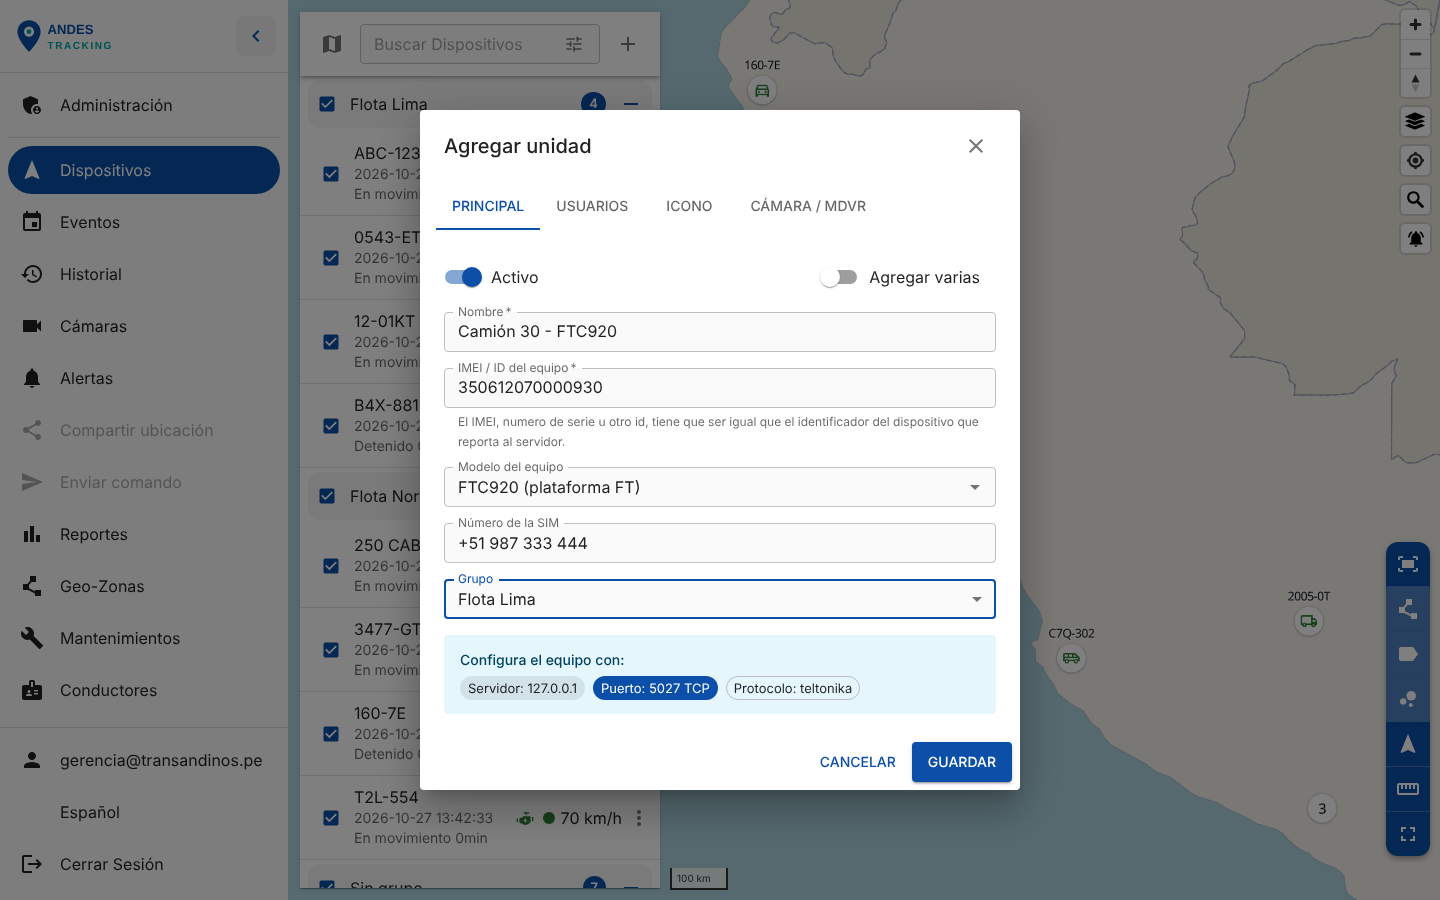
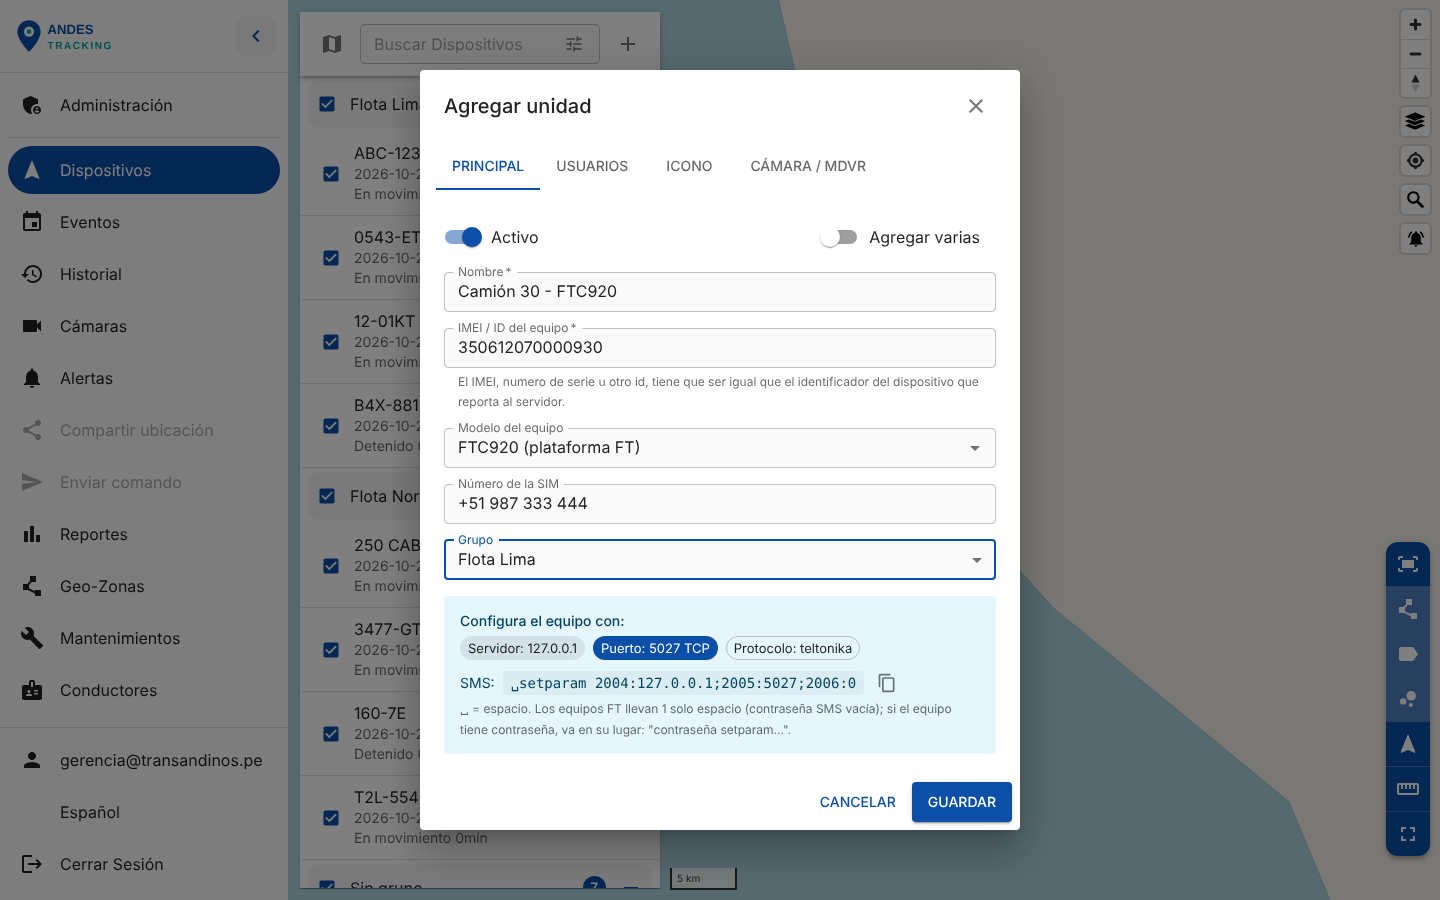
Use the right SMS prefix for Teltonika FMB and FT devices
- Server patch 0007: SMS commands to Teltonika devices get the SMS
  credentials prefix by model: "<login> <password> " on FMB (two spaces
  when empty), "<password> " on the FT platform (one space), from the
  unit's smsLogin / smsPassword attributes; engine stop/resume by SMS
- Add-unit dialog shows the setparam server SMS with the spaces made
  visible for each Teltonika model
- Test: SMS captured through an HTTP gateway for FTC920 and FMB920

Claude-Session: https://claude.ai/code/session_01BDt2R4TKk3QGNRuJmLv2ho

diff --git a/tracking-platform/web/src/common/util/deviceModels.js b/tracking-platform/web/src/common/util/deviceModels.js
@@ -1,6 +1,8 @@
 // Common GPS trackers and cameras: the protocol (and so the server port) each one uses, its map icon and, for
 // cameras, the default camera settings. Ports are the Traccar defaults for each protocol. deviceModel is the exact
 // code saved as the unit model when the decoder reads model specific parameters (Teltonika FMB / FT platform).
+// Teltonika SMS start with the SMS credentials: FMB '<login> <password> ' (two spaces when empty), FT platform
+// '<password> ' (one space).
 
 const models = [
   { brand: 'Concox / Jimi', model: 'GT06N, GT800, JM-VL01, JM-VL03, AT4', protocol: 'gt06', port: 5023, category: 'car', sms: 'SERVER,1,{host},{port},0#' },
@@ -8,20 +10,20 @@ const models = [
   { brand: 'Jimi IoT', model: 'JC450 / JC181 / JC371 / JC182 / JC451 (dashcam JT808)', protocol: 'huabao', port: 5015, category: 'car', camera: { kind: 'dashcam', protocol: 'jt808', channels: 2 } },
   { brand: 'MDVR', model: 'MDVR JT808 / JT1078 (Howen, Streamax, genérico)', protocol: 'huabao', port: 5015, category: 'bus', camera: { kind: 'mdvr', protocol: 'jt808', channels: 4 } },
   { brand: 'JT808', model: 'Rastreador JT/T 808 genérico', protocol: 'huabao', port: 5015, category: 'car' },
-  { brand: 'Teltonika', model: 'FMB920', deviceModel: 'FMB920', protocol: 'teltonika', port: 5027, category: 'car' },
-  { brand: 'Teltonika', model: 'FMB120', deviceModel: 'FMB120', protocol: 'teltonika', port: 5027, category: 'car' },
-  { brand: 'Teltonika', model: 'FMB130', deviceModel: 'FMB130', protocol: 'teltonika', port: 5027, category: 'car' },
-  { brand: 'Teltonika', model: 'FMB140', deviceModel: 'FMB140', protocol: 'teltonika', port: 5027, category: 'truck' },
-  { brand: 'Teltonika', model: 'FMC130', deviceModel: 'FMC130', protocol: 'teltonika', port: 5027, category: 'car' },
-  { brand: 'Teltonika', model: 'FMC920', deviceModel: 'FMC920', protocol: 'teltonika', port: 5027, category: 'car' },
-  { brand: 'Teltonika', model: 'FMC150', deviceModel: 'FMC150', protocol: 'teltonika', port: 5027, category: 'truck' },
-  { brand: 'Teltonika', model: 'FTC920 (plataforma FT)', deviceModel: 'FTC920', protocol: 'teltonika', port: 5027, category: 'car' },
-  { brand: 'Teltonika', model: 'FTC921 (plataforma FT)', deviceModel: 'FTC921', protocol: 'teltonika', port: 5027, category: 'car' },
-  { brand: 'Teltonika', model: 'FTC961 (plataforma FT)', deviceModel: 'FTC961', protocol: 'teltonika', port: 5027, category: 'car' },
-  { brand: 'Teltonika', model: 'FTC965 (plataforma FT)', deviceModel: 'FTC965', protocol: 'teltonika', port: 5027, category: 'truck' },
-  { brand: 'Teltonika', model: 'FTC968 (plataforma FT)', deviceModel: 'FTC968', protocol: 'teltonika', port: 5027, category: 'truck' },
-  { brand: 'Teltonika', model: 'FTM880 (plataforma FT)', deviceModel: 'FTM880', protocol: 'teltonika', port: 5027, category: 'truck' },
-  { brand: 'Teltonika', model: 'FTC880 (plataforma FT)', deviceModel: 'FTC880', protocol: 'teltonika', port: 5027, category: 'truck' },
+  { brand: 'Teltonika', model: 'FMB920', deviceModel: 'FMB920', protocol: 'teltonika', port: 5027, sms: '  setparam 2004:{host};2005:{port};2006:0', category: 'car' },
+  { brand: 'Teltonika', model: 'FMB120', deviceModel: 'FMB120', protocol: 'teltonika', port: 5027, sms: '  setparam 2004:{host};2005:{port};2006:0', category: 'car' },
+  { brand: 'Teltonika', model: 'FMB130', deviceModel: 'FMB130', protocol: 'teltonika', port: 5027, sms: '  setparam 2004:{host};2005:{port};2006:0', category: 'car' },
+  { brand: 'Teltonika', model: 'FMB140', deviceModel: 'FMB140', protocol: 'teltonika', port: 5027, sms: '  setparam 2004:{host};2005:{port};2006:0', category: 'truck' },
+  { brand: 'Teltonika', model: 'FMC130', deviceModel: 'FMC130', protocol: 'teltonika', port: 5027, sms: '  setparam 2004:{host};2005:{port};2006:0', category: 'car' },
+  { brand: 'Teltonika', model: 'FMC920', deviceModel: 'FMC920', protocol: 'teltonika', port: 5027, sms: '  setparam 2004:{host};2005:{port};2006:0', category: 'car' },
+  { brand: 'Teltonika', model: 'FMC150', deviceModel: 'FMC150', protocol: 'teltonika', port: 5027, sms: '  setparam 2004:{host};2005:{port};2006:0', category: 'truck' },
+  { brand: 'Teltonika', model: 'FTC920 (plataforma FT)', deviceModel: 'FTC920', protocol: 'teltonika', port: 5027, sms: ' setparam 2004:{host};2005:{port};2006:0', category: 'car' },
+  { brand: 'Teltonika', model: 'FTC921 (plataforma FT)', deviceModel: 'FTC921', protocol: 'teltonika', port: 5027, sms: ' setparam 2004:{host};2005:{port};2006:0', category: 'car' },
+  { brand: 'Teltonika', model: 'FTC961 (plataforma FT)', deviceModel: 'FTC961', protocol: 'teltonika', port: 5027, sms: ' setparam 2004:{host};2005:{port};2006:0', category: 'car' },
+  { brand: 'Teltonika', model: 'FTC965 (plataforma FT)', deviceModel: 'FTC965', protocol: 'teltonika', port: 5027, sms: ' setparam 2004:{host};2005:{port};2006:0', category: 'truck' },
+  { brand: 'Teltonika', model: 'FTC968 (plataforma FT)', deviceModel: 'FTC968', protocol: 'teltonika', port: 5027, sms: ' setparam 2004:{host};2005:{port};2006:0', category: 'truck' },
+  { brand: 'Teltonika', model: 'FTM880 (plataforma FT)', deviceModel: 'FTM880', protocol: 'teltonika', port: 5027, sms: ' setparam 2004:{host};2005:{port};2006:0', category: 'truck' },
+  { brand: 'Teltonika', model: 'FTC880 (plataforma FT)', deviceModel: 'FTC880', protocol: 'teltonika', port: 5027, sms: ' setparam 2004:{host};2005:{port};2006:0', category: 'truck' },
   { brand: 'Coban', model: 'TK103, TK303, GPS-103', protocol: 'gps103', port: 5001, category: 'car', sms: 'adminip123456 {host} {port}' },
   { brand: 'Sinotrack', model: 'ST-901, ST-906, ST-907 (H02)', protocol: 'h02', port: 5013, category: 'car', sms: '8040000 {host} {port}' },
   { brand: 'Queclink', model: 'GV300, GV55, GV500, GL300', protocol: 'gl200', port: 5004, category: 'truck' },

diff --git a/tracking-platform/web/src/settings/AddDeviceDialog.jsx b/tracking-platform/web/src/settings/AddDeviceDialog.jsx
@@ -147,11 +147,18 @@ const AddDeviceDialog = ({
       {sms && (
         <Stack direction="row" alignItems="center" spacing={1} sx={{ mt: 1 }}>
           <Typography variant="body2">{`${t('addDeviceSms')}:`}</Typography>
-          <Box component="code" sx={{ bgcolor: 'action.hover', px: 1, py: 0.25, borderRadius: 1 }}>{sms}</Box>
+          <Box component="code" sx={{ bgcolor: 'action.hover', px: 1, py: 0.25, borderRadius: 1 }}>
+            {sms.replace(/^ +/, (spaces) => '␣'.repeat(spaces.length))}
+          </Box>
           <Tooltip title={t('addDeviceCopy')}>
             <IconButton size="small" onClick={() => navigator.clipboard?.writeText(sms)}><ContentCopyIcon fontSize="small" /></IconButton>
           </Tooltip>
         </Stack>
+      )}
+      {sms?.startsWith(' ') && (
+        <Typography variant="caption" color="text.secondary">
+          {t(sms.startsWith('  ') ? 'addDeviceSmsTwoSpaces' : 'addDeviceSmsOneSpace')}
+        </Typography>
       )}
     </Alert>
   );

diff --git a/tracking-platform/server/tests/test_teltonika_ft.py b/tracking-platform/server/tests/test_teltonika_ft.py
@@ -3,12 +3,17 @@
 Prueba de los equipos Teltonika de la plataforma FT (FTC920, FTC961...): un FTC920 simulado envía Codec 8
 Extended al puerto 5027 y se comprueba que los datos compartidos con FMB (nivel de batería, ICCID, ADC) y el
 voltaje externo propio de FT (AVL 800) se decodifican; un FMB920 sigue usando el voltaje del AVL 66.
+Con SMS_CAPTURE_PORT (y sms.http.url=http://127.0.0.1:<puerto>/sms en traccar.xml) comprueba además el prefijo de
+los SMS: dos espacios en FMB (login y contraseña vacíos), uno en FT (solo contraseña).
 Uso: TRACCAR_URL=http://127.0.0.1:8082 ADMIN_EMAIL=... ADMIN_PASSWORD=... python3 test_teltonika_ft.py
 """
 import os
+import http.server
+import json
 import socket
 import struct
 import sys
+import threading
 import time
 import urllib.parse
 
@@ -53,6 +58,41 @@ def crc16_ibm(data):
     return crc
 
 
+def check_sms(api, devices, ftc, fmb):
+    received = []
+
+    class Gateway(http.server.BaseHTTPRequestHandler):
+        def do_POST(self):
+            received.append(self.rfile.read(int(self.headers['Content-Length'])).decode())
+            self.send_response(200)
+            self.end_headers()
+
+        def log_message(self, *args):
+            pass
+
+    server = http.server.HTTPServer(('127.0.0.1', int(os.environ['SMS_CAPTURE_PORT'])), Gateway)
+    threading.Thread(target=server.serve_forever, daemon=True).start()
+
+    def sms(imei, command, attributes=None):
+        device = dict(devices[imei], phone='+51900000001', attributes=attributes or {})
+        api.req('PUT', f'/api/devices/{device["id"]}', device)
+        received.clear()
+        status, _ = api.req('POST', '/api/commands/send', dict(command, deviceId=device['id'], textChannel=True))
+        found = wait_for(lambda: received)
+        return status, found and json.loads(found[0])['message']
+
+    custom = {'type': 'custom', 'attributes': {'data': 'getinfo'}}
+    check('FTC920 SMS with one space', sms(ftc, custom) == (200, ' getinfo'))
+    check('FTC920 SMS with password', sms(ftc, custom, {'smsPassword': '1234'}) == (200, '1234 getinfo'))
+    check('FMB920 SMS with two spaces', sms(fmb, custom) == (200, '  getinfo'))
+    check('FMB920 SMS with login and password',
+          sms(fmb, custom, {'smsLogin': 'adm', 'smsPassword': '1234'}) == (200, 'adm 1234 getinfo'))
+    check('FTC920 engine stop by SMS', sms(ftc, {'type': 'engineStop'}) == (200, ' setdigout 1'))
+    check('typed prefix kept as is', sms(fmb, {'type': 'custom', 'attributes': {'data': ' x getinfo'}})
+          == (200, ' x getinfo'))
+    server.shutdown()
+
+
 def main():
     api = Client()
     email = os.environ.get('ADMIN_EMAIL', 'admin@test')
@@ -89,6 +129,9 @@ def main():
     fm = wait_for(lambda: latest(fmb))
     check('FMB920 external voltage still from AVL 66', fm and abs(fm.get('power', 0) - 12.345) < 1e-6, fm)
     check('FMB920 leaves AVL 800 raw', fm and fm.get('io800') == 24300, fm)
+
+    if os.environ.get('SMS_CAPTURE_PORT'):
+        check_sms(api, devices, ftc, fmb)
 
     failed = [name for name, ok in results if not ok]
     print(f'\n{len(results) - len(failed)}/{len(results)} passed')

diff --git a/tracking-platform/README.md b/tracking-platform/README.md
@@ -84,6 +84,12 @@ cuadrícula de video en vivo de 4 canales. Ver la sección *Dashcams* de [infra/
   modelo (p. ej. `FTC920`), que es lo que activa en el servidor los parámetros por modelo: batería %, ICCID,
   entradas analógicas, OBD/CAN, temperaturas, etc. En los FT el **voltaje externo llega en el AVL 800** (mV, 4 bytes)
   en lugar del 66, y se muestra como *Alimentación*. En unidades ya creadas, basta con poner el código en *Modelo*.
+- **SMS de Teltonika** (parche `0007`): los SMS llevan delante las credenciales SMS del equipo. En **FMB** son
+  `login contraseña ` (**2 espacios** si están vacías) y en la **plataforma FT** solo `contraseña ` (**1 espacio**).
+  Los comandos por GPRS no llevan prefijo. El alta muestra el SMS de configuración con el número correcto de
+  espacios (␣), y al enviar un comando por SMS desde *Enviar comando* el servidor añade el prefijo según el modelo
+  y los atributos `smsLogin` / `smsPassword` de la unidad. Si el texto empieza con un espacio, se envía tal cual.
+  Requiere un gateway SMS configurado (`sms.http.url` en `traccar.xml`).
 - El **superadministrador es la raíz de la jerarquía** (parche `0005`): los usuarios que crea quedan bajo él, así
   que ve todas las unidades en el mapa y en vivo, no solo en los listados de administración.
 
@@ -148,7 +154,7 @@ python3 server/tests/test_hierarchy.py
 python3 server/tests/test_dashcam.py foto.jpg clip.mp4 cabina.jpg
 python3 server/tests/test_jimi.py clip.mp4 cabina.jpg
 python3 server/tests/test_status.py
-python3 server/tests/test_teltonika_ft.py
+SMS_CAPTURE_PORT=7620 python3 server/tests/test_teltonika_ft.py   # con sms.http.url=http://127.0.0.1:7620/sms
 ```
 
 ## Producción
